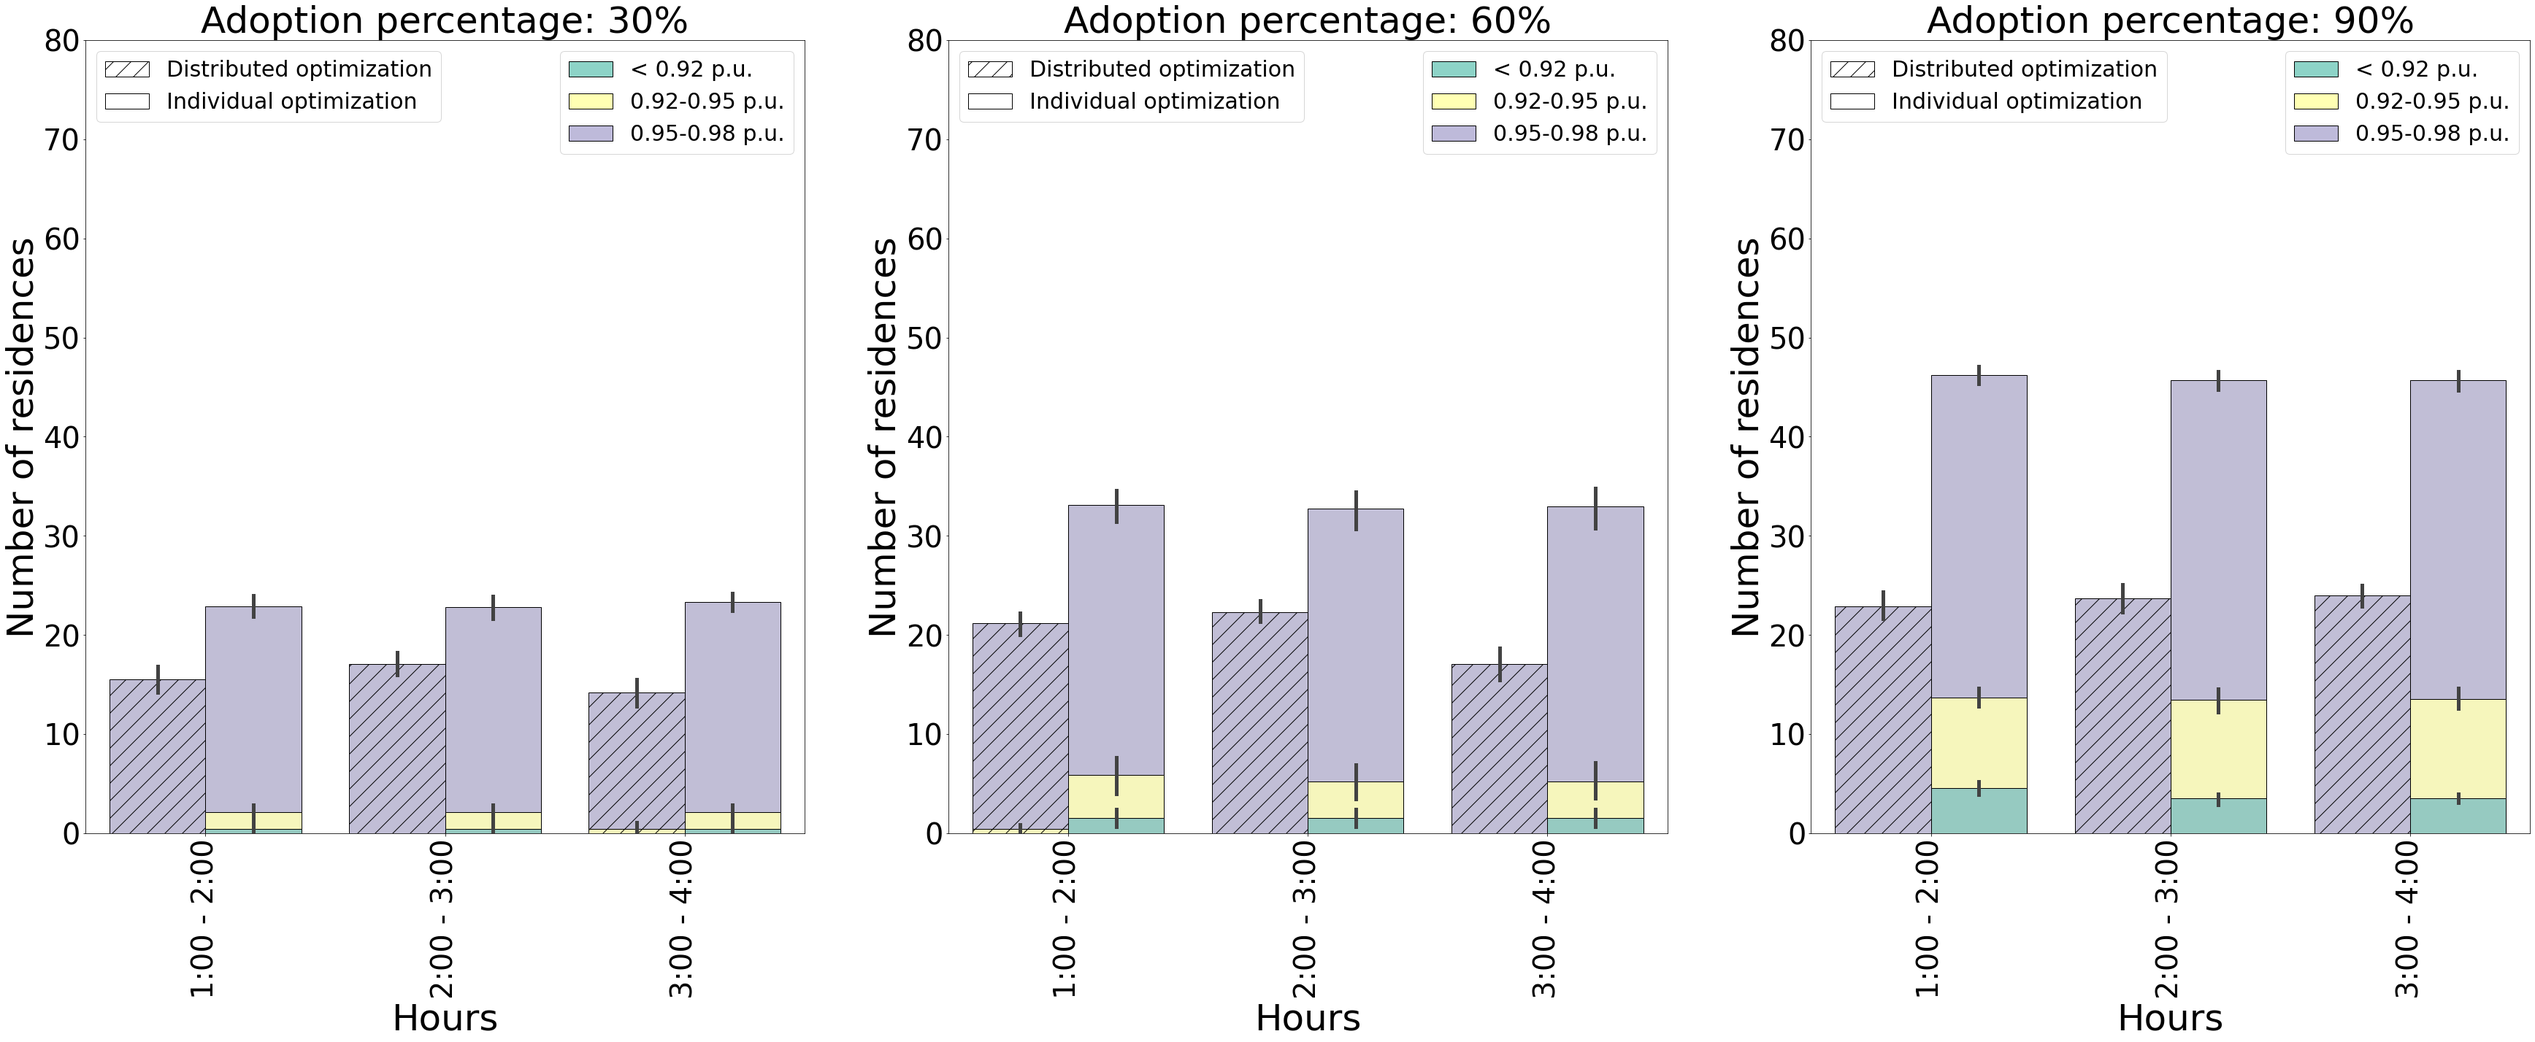
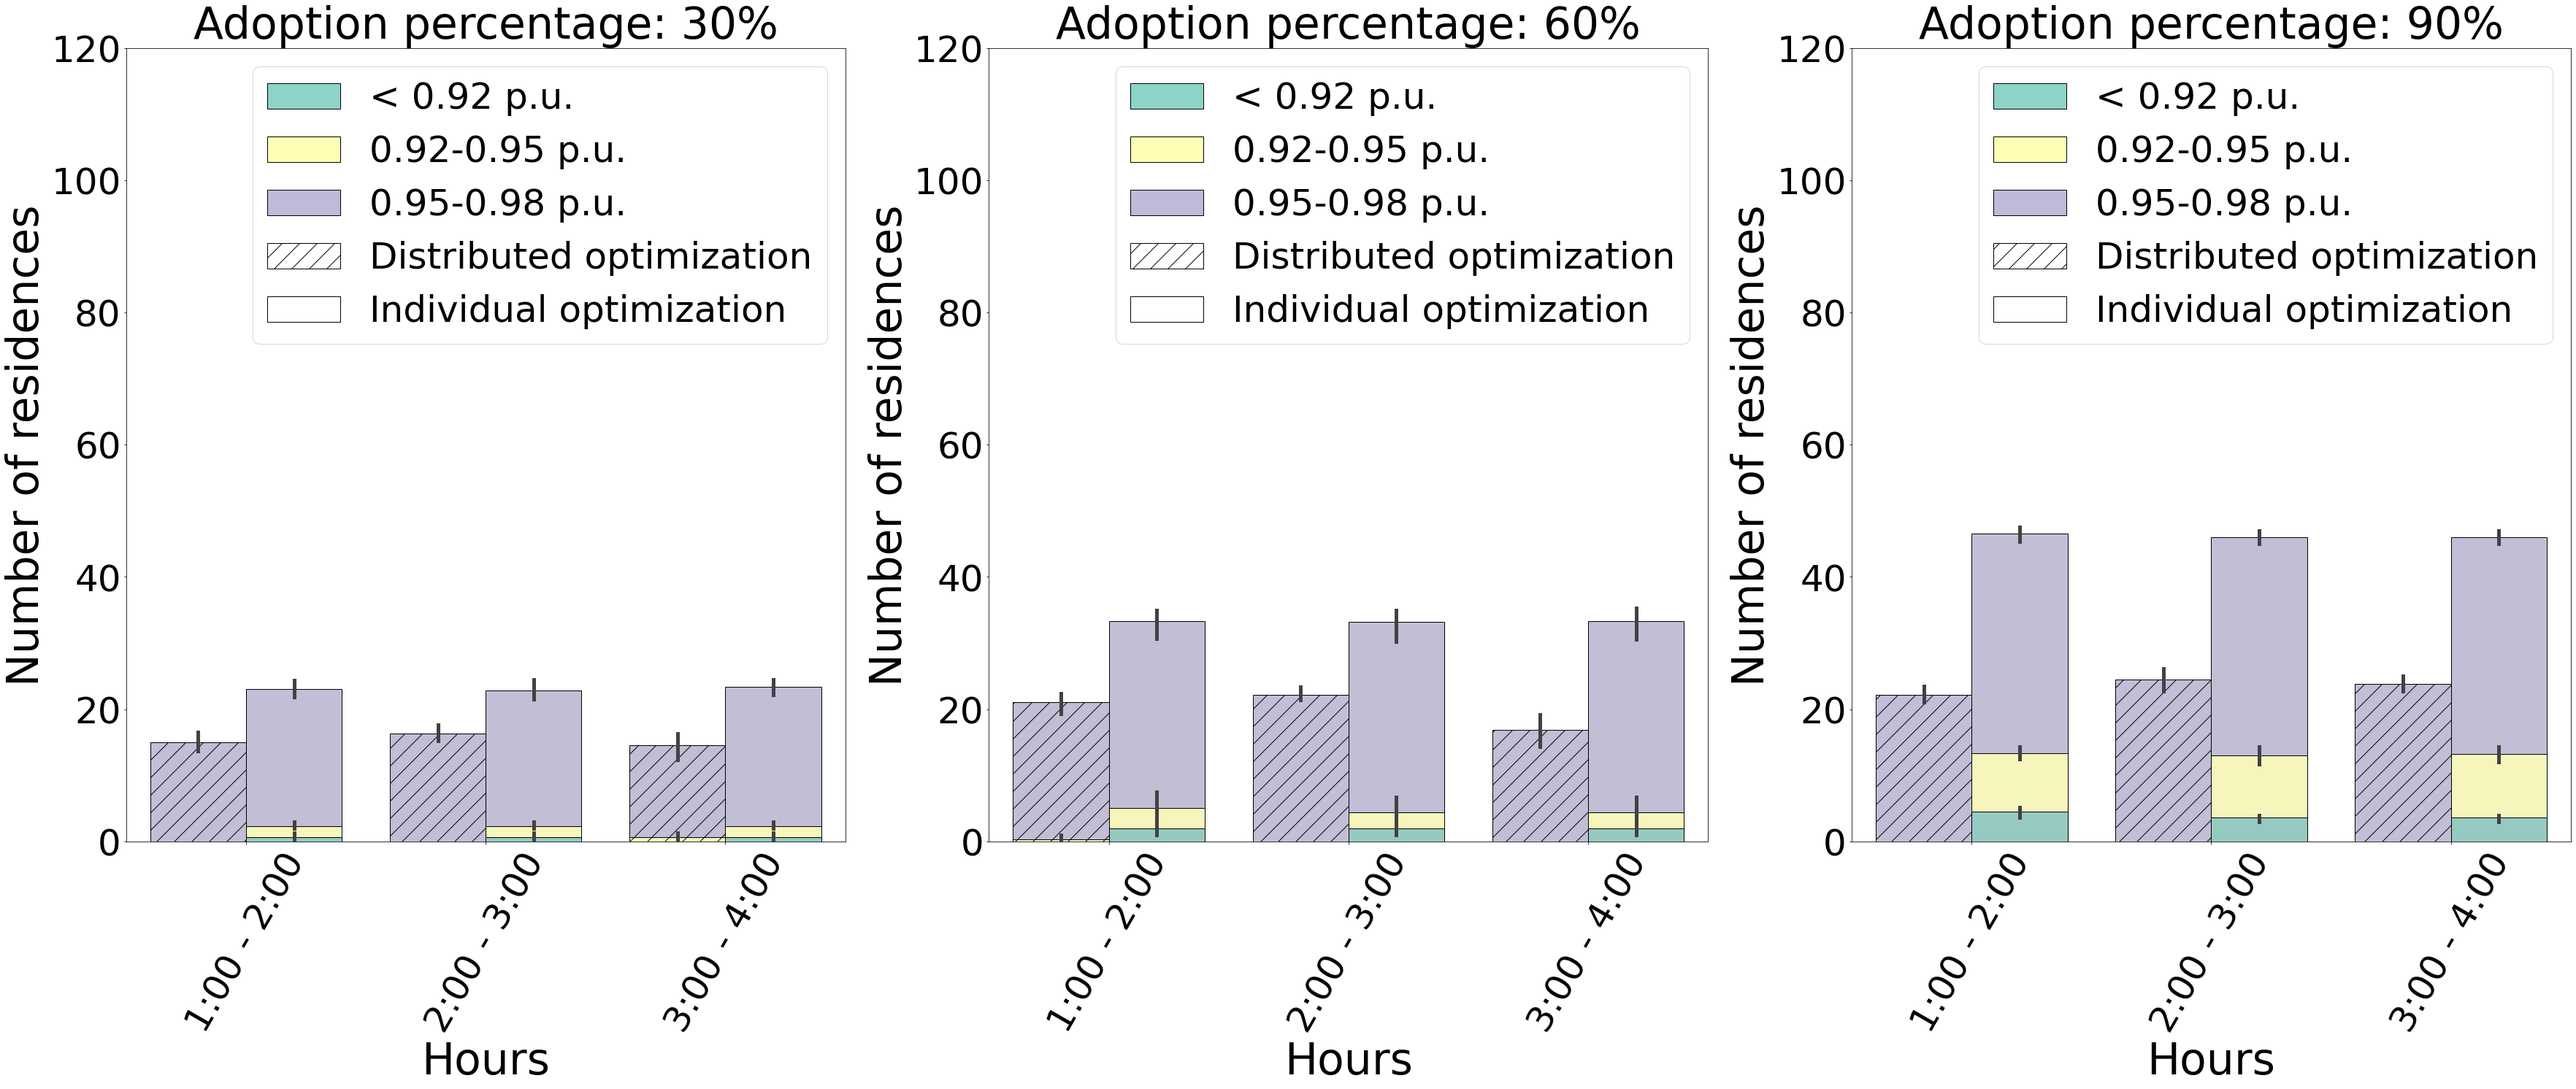
updated figs

diff --git a/test-dist-ind-opt.py b/test-dist-ind-opt.py
@@ -72,7 +72,7 @@ def plot_network(ax,net,ev_home=[]):
         ax.scatter(x_int,y_int,s=400.0,c=c_ev)
         leghands.append(Line2D([0], [0], color='white', markerfacecolor=c_ev, 
                marker='o',markersize=20,label='Residence with EV'))
-    ax.legend(handles=leghands,ncol=1,prop={'size': 30},loc="lower right")
+    ax.legend(handles=leghands,ncol=1,prop={'size': 50},loc="lower right")
     return ax
 
 
@@ -94,16 +94,16 @@ def draw_boxplot(df,ax=None,a=None,r=None,val="voltage",colset="Set2"):
     #     ax.set_title("EV adoption percentage: "+str(a)+"%",
     #                  fontsize=60)
     
-    ax.tick_params(axis='y',labelsize=60)
-    ax.tick_params(axis='x',rotation=90,labelsize=40)
+    ax.tick_params(axis='y',labelsize=70)
+    ax.tick_params(axis='x',rotation=60,labelsize=70)
     if val == 'voltage':
-        ax.set_ylabel("Node voltage (in p.u.)",fontsize=60)
-        ax.set_title("Residence node voltages",fontsize=60)
+        ax.set_ylabel("Node voltage (in p.u.)",fontsize=80)
+        # ax.set_title("Residence node voltages",fontsize=60)
     elif val == 'loading':
-        ax.set_ylabel("Percentage loading level",fontsize=60)
-        ax.set_title("Distribution line loading level",fontsize=60)
+        ax.set_ylabel("Line loading level (%)",fontsize=80)
+        # ax.set_title("Distribution line loading level",fontsize=60)
     ax.set_xlabel("Hours",fontsize=60)
-    ax.legend(ncol=3,prop={'size': 60})
+    ax.legend(ncol=3,prop={'size': 70})
     return ax
 
 def plot_convergence(ax,diff_iter):
@@ -362,24 +362,24 @@ dist = GetDistNet(distpath,sub)
 print("Loaded network and home data")
 
 #%% Draw the network with community of residences
-for com in range(1,6):
-    dirname = str(sub)+"-com-"+str(com)+"/"
-    with open(workpath+"/input/"+str(sub)+"-com.txt",'r') as f:
-        lines = f.readlines()
-    com_homes = [int(x) for x in lines[com-1].strip('\n').split(' ')]
+# for com in range(1,6):
+#     dirname = str(sub)+"-com-"+str(com)+"/"
+#     with open(workpath+"/input/"+str(sub)+"-com.txt",'r') as f:
+#         lines = f.readlines()
+#     com_homes = [int(x) for x in lines[com-1].strip('\n').split(' ')]
     
-    fig = plt.figure(figsize=(40,40))
-    ax = fig.add_subplot(1,1,1)
-    ax = plot_network(ax,dist,com_homes)
+#     fig = plt.figure(figsize=(40,40))
+#     ax = fig.add_subplot(1,1,1)
+#     ax = plot_network(ax,dist,com_homes)
     
-    fig.savefig(figpath+str(sub)+"-com-"+str(com)+"-homes.png",
-                bbox_inches="tight")
+#     fig.savefig(figpath+str(sub)+"-com-"+str(com)+"-homes.png",
+#                 bbox_inches="tight")
 
 
-sys.exit(0)
+# sys.exit(0)
 #%% Run for single test case
 rate = 4800
-adopt = 60
+adopt = 90
 
 com = 2
 dirname = str(sub)+"-com-"+str(com)+"/"

diff --git a/test-dist-ind-adopt.py b/test-dist-ind-adopt.py
@@ -20,7 +20,7 @@ workpath = os.getcwd()
 libpath = workpath + "/libs/"
 figpath = workpath + "/figs/"
 outpath = workpath + "/out/"
-distpath = workpath + "/input/osm-primnet/"
+distpath = workpath + "/input/"
 grbpath = workpath + "/gurobi/"
 homepath = workpath + "/input/load/121-home-load.csv"
 
@@ -132,12 +132,12 @@ def draw_barplot(df,groups,ax=None,adopt=90,rate=4800):
     
     
     # Format other stuff
-    ax.tick_params(axis='y',labelsize=40)
-    ax.tick_params(axis='x',labelsize=40,rotation=90)
-    ax.set_ylabel("Number of residences",fontsize=50)
-    ax.set_xlabel("Hours",fontsize=50)
-    ax.set_title("Adoption percentage: "+str(adopt)+"%",fontsize=50)
-    ax.set_ylim(bottom=0,top=80)
+    ax.tick_params(axis='y',labelsize=50)
+    ax.tick_params(axis='x',labelsize=50,rotation=60)
+    ax.set_ylabel("Number of residences",fontsize=60)
+    ax.set_xlabel("Hours",fontsize=60)
+    ax.set_title("Adoption percentage: "+str(adopt)+"%",fontsize=60)
+    ax.set_ylim(bottom=0,top=120)
 
 
     hatches = itertools.cycle(['/', ''])
@@ -153,16 +153,16 @@ def draw_barplot(df,groups,ax=None,adopt=90,rate=4800):
                   label="Distributed optimization",hatch='/'),
                    Patch(facecolor="white",edgecolor='black',
                          label="Individual optimization",hatch='')]
-    leg1 = ax.legend(handles=han1,ncol=1,prop={'size': 30},loc='upper right')
-    ax.legend(handles=han2,ncol=1,prop={'size': 30},loc='upper left')
-    ax.add_artist(leg1)
+    # leg1 = ax.legend(handles=han1,ncol=1,prop={'size': 50},loc='center right')
+    ax.legend(handles=han1+han2,ncol=1,prop={'size': 50},loc='upper right')
+    # ax.add_artist(leg1)
     return ax
     
 
 #%% Get out of limit count for single adoption
 rating = 4800
 sub = 121144
-com = 4
+com = 2
 dirname = str(sub)+"-com-"+str(com)+"/"
 dist = GetDistNet(distpath,sub)
 start = 20
